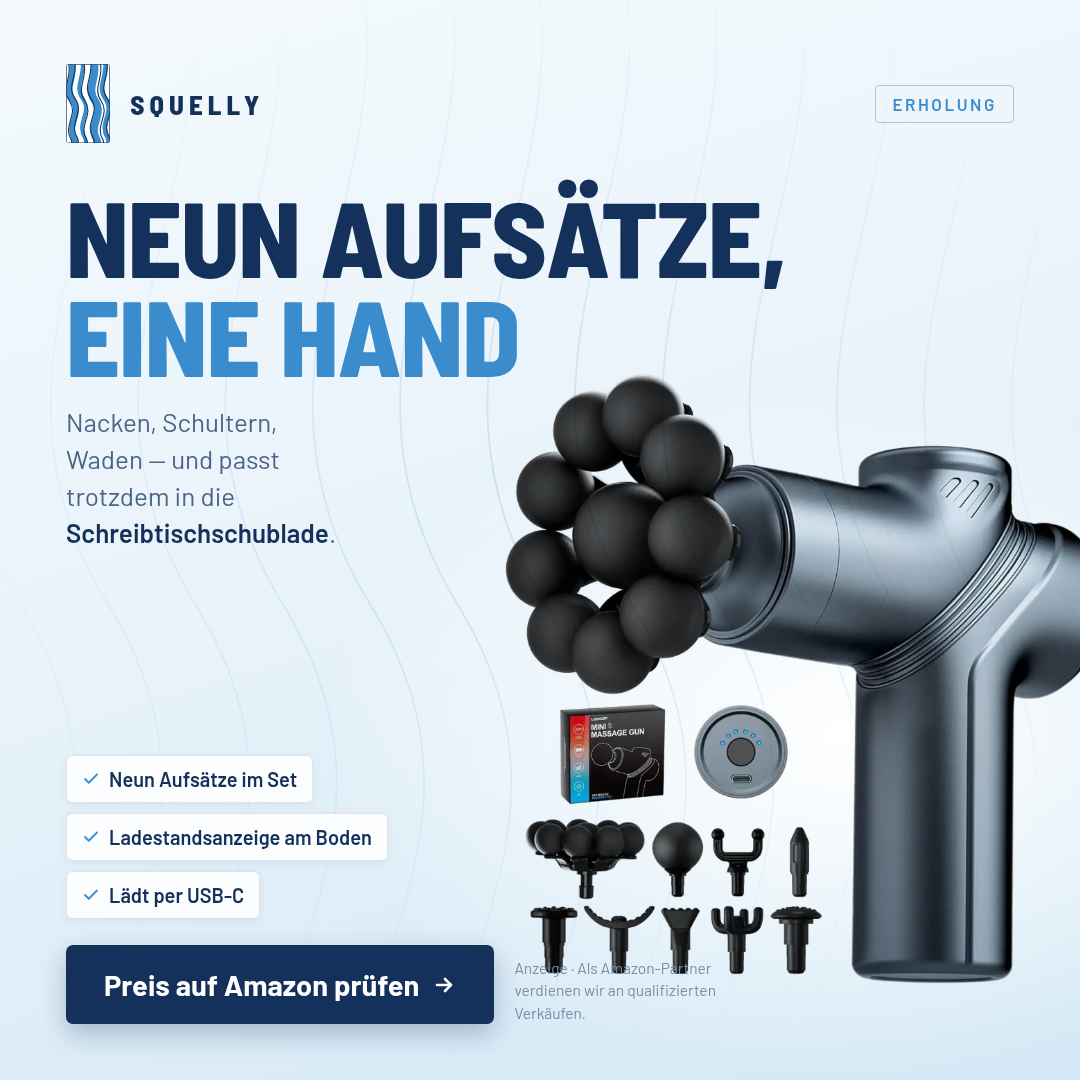
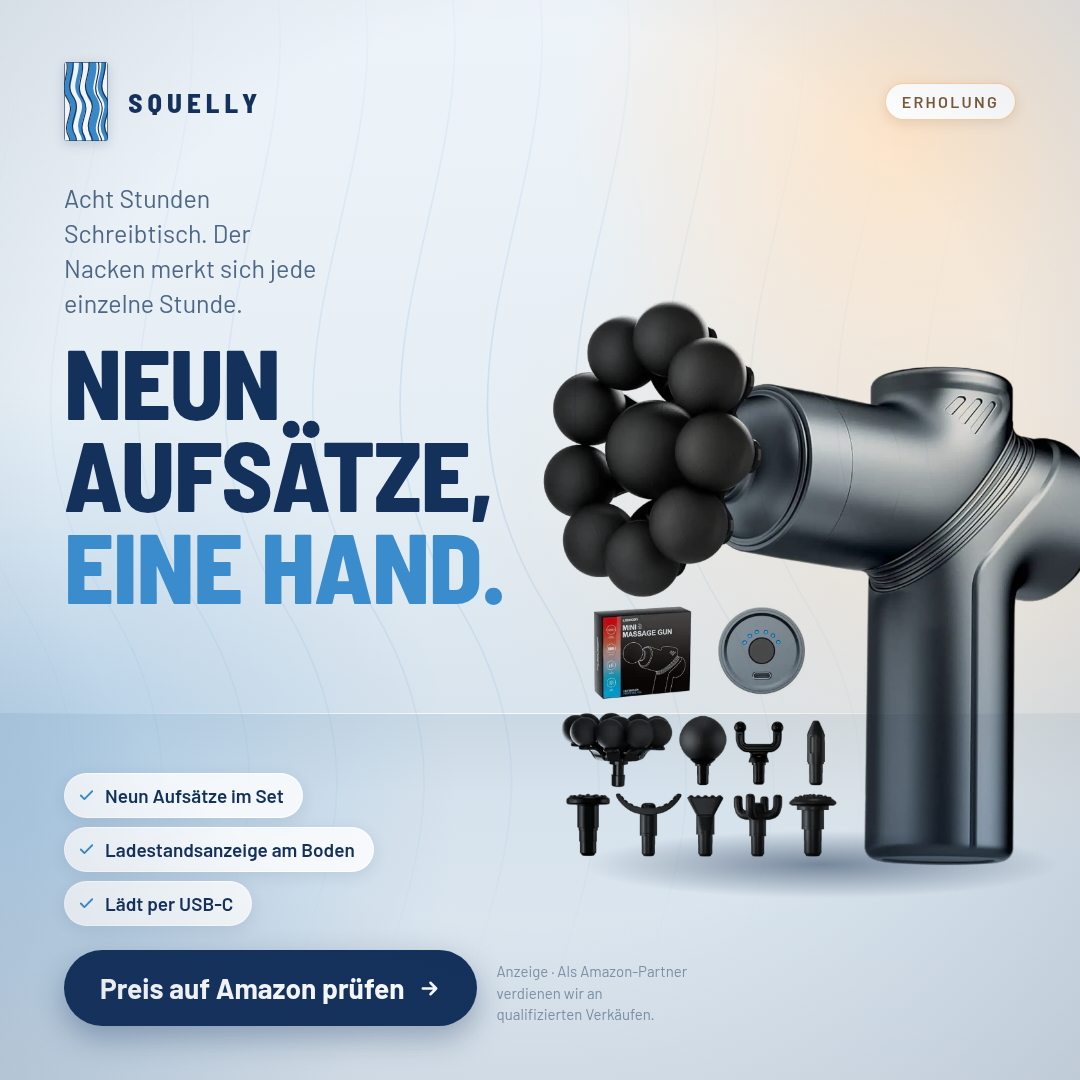
Light the ad set like a room instead of a lightbox
The creatives read as catalogue cutouts: even light, no ground, no
warmth. Rebuilt around a simple scene — wall, surface, warm key light
from the upper right, cool fill from the lower left, and a vignette.

- Contact shadows are positioned from the measured product silhouette
  rather than by hand, so each product actually sits on the surface.
  The renderer scans the image for non-white pixels and places the
  shadow under the real base.
- Multiply moved from the image to its wrapper. On the element itself
  it blended against an empty stacking context and left a white box
  around every product.
- Dropped the reflection: object-fit made it impossible to align to
  the product base, and it read as a detached smear.
- The lamp now shows what it does — the wide colour circle it casts,
  plus its sixteen colours as swatches in the spec chip.
- Copy opens with a spoken observation instead of a slogan.

Also checks in the build and render scripts next to the output.

Claude-Session: https://claude.ai/code/session_01Kc8PukdsvKsrThR87MMvZu

diff --git a/werbemittel/motive-vorlage.html b/werbemittel/motive-vorlage.html
@@ -6,72 +6,119 @@
 <style>
 /*FONTS*/
 :root{
-  --navy:#14315c; --blue:#3a8ccd; --sky:#d5eef8; --ground:#e9f3fa;
-  --ink-soft:#4a6484;
+  --navy:#14315c; --blue:#3a8ccd; --sky:#d5eef8;
+  --ink-soft:#4e6785;
+  /* Wärme: ein Sonnenfleck aus der oberen rechten Ecke, wie durch ein Fenster */
+  --warm:#ffe3c4;
 }
 *{margin:0;padding:0;box-sizing:border-box}
-body{background:#333;display:flex;flex-direction:column;align-items:center;gap:34px;padding:34px}
+body{background:#2a2a2a;display:flex;flex-direction:column;align-items:center;gap:34px;padding:34px}
 
 /* ============================================================
-   Ein Layout für alle drei Motive — gleiche Marke, gleiche Regeln.
-   Unterschiedlich sind nur Foto, Kategorie und Text.
+   Ein Motiv = ein Raum. Wand oben, Fläche unten, Licht von rechts.
+   Das Produkt steht darauf, statt im Nichts zu schweben.
    ============================================================ */
 .ad{
   width:1080px;height:1080px;position:relative;overflow:hidden;flex-shrink:0;
-  background:
-    radial-gradient(78% 52% at 78% 68%, #ffffff 0%, rgba(255,255,255,0) 62%),
-    linear-gradient(163deg, #f4fafd 0%, var(--ground) 46%, #d3e8f5 100%);
   font-family:'Barlow',system-ui,sans-serif;color:var(--navy);
+  background:linear-gradient(178deg,#eef4f9 0%,#e4edf4 46%,#dae5ee 62%,#cfdcE7 100%);
+  isolation:isolate;
 }
-/* Konturmotiv der Marke, sehr zurückhaltend — Textur statt Dekoration */
-.tex{position:absolute;inset:-6%;opacity:.2;pointer-events:none;
-  -webkit-mask-image:radial-gradient(66% 58% at 50% 46%,#000,transparent 84%);
-  mask-image:radial-gradient(66% 58% at 50% 46%,#000,transparent 84%)}
+/* Die Fläche, auf der das Produkt steht */
+.surface{position:absolute;left:0;right:0;bottom:0;height:34%;z-index:0;
+  background:linear-gradient(180deg,#c9d8e4 0%,#d6e2ec 22%,#dfe8f0 100%)}
+.surface::before{content:"";position:absolute;top:0;left:0;right:0;height:1px;
+  background:linear-gradient(90deg,transparent,rgba(255,255,255,.85) 30%,rgba(255,255,255,.85) 70%,transparent)}
+/* Warmes Streiflicht — der wichtigste Griff gegen den Laborlook */
+.sun{position:absolute;inset:0;z-index:1;pointer-events:none;
+  background:
+    radial-gradient(46% 42% at 84% 12%, rgba(255,227,196,.92) 0%, rgba(255,227,196,0) 68%),
+    radial-gradient(70% 50% at 92% 46%, rgba(255,214,170,.42) 0%, rgba(255,214,170,0) 70%)}
+/* Kühler Gegenpol links, damit das Markenblau trägt */
+.cool{position:absolute;inset:0;z-index:1;pointer-events:none;
+  background:radial-gradient(58% 54% at 2% 74%, rgba(58,140,205,.26) 0%, rgba(58,140,205,0) 70%)}
+/* Konturmotiv der Marke, sehr leise */
+.tex{position:absolute;inset:-6%;z-index:1;opacity:.16;pointer-events:none;
+  -webkit-mask-image:radial-gradient(64% 56% at 46% 42%,#000,transparent 82%);
+  mask-image:radial-gradient(64% 56% at 46% 42%,#000,transparent 82%)}
 .tex svg{width:100%;height:100%}
+/* Weiche Abdunklung an den Rändern — Fotos haben das, Grafiken meist nicht */
+.vig{position:absolute;inset:0;z-index:6;pointer-events:none;
+  background:radial-gradient(78% 72% at 50% 44%, transparent 58%, rgba(28,54,88,.16) 100%)}
 
-.inner{position:relative;z-index:2;display:flex;flex-direction:column;height:100%;
-  padding:64px 66px 56px}
+/* ---------- Produkt ---------- */
+/* Multiply auf hellem Grund: das Weiß des Studiofotos verschwindet,
+   das Produkt behält seine Zeichnung. */
+.stage{position:absolute;z-index:3;mix-blend-mode:multiply}
+.stage img{width:100%;height:100%;object-fit:contain;display:block}
+/* Aufsetzschatten: ohne ihn schwebt jedes freigestellte Produkt */
+.contact{position:absolute;z-index:2;border-radius:50%;
+  background:radial-gradient(closest-side, rgba(22,45,76,.5), rgba(22,45,76,0) 76%)}
 
-/* ---------- Markenzeile ---------- */
+#ad1 .stage  {right:-40px;bottom:206px;width:600px;height:600px}
+#ad1 .contact{right:6px;bottom:170px;width:530px;height:76px}
+#ad2 .stage  {right:-24px;bottom:214px;width:566px;height:566px}
+#ad2 .contact{right:26px;bottom:180px;width:470px;height:70px}
+#ad3 .stage  {right:26px;bottom:210px;width:492px;height:660px}
+#ad3 .contact{right:132px;bottom:184px;width:282px;height:56px}
+
+
+/* ---------- Lichtkreis der Lampe ---------- */
+/* Genau das, was eine Sunset-Lampe an die Wand wirft: ein großer,
+   weicher Farbkreis. Liegt hinter dem Produkt, damit es davor steht. */
+#ad3 .glow{position:absolute;z-index:2;border-radius:50%;pointer-events:none;
+  left:430px;top:22px;width:700px;height:700px;
+  background:radial-gradient(circle at 46% 44%,
+    rgba(255,214,150,.95) 0%,
+    rgba(255,168,96,.82) 22%,
+    rgba(245,116,96,.62) 40%,
+    rgba(206,94,138,.40) 57%,
+    rgba(138,92,190,.22) 72%,
+    rgba(138,92,190,0) 82%);
+  filter:blur(3px)}
+/* Streulicht auf der Stellfläche, sonst schwebt der Kreis vor dem Raum */
+#ad3 .glowfloor{position:absolute;z-index:2;pointer-events:none;
+  left:470px;bottom:150px;width:640px;height:200px;border-radius:50%;
+  background:radial-gradient(closest-side, rgba(255,152,96,.34), rgba(255,152,96,0) 76%);
+  filter:blur(8px)}
+
+/* ---------- Farbpunkte ---------- */
+.dots{display:inline-flex;gap:5px;margin-right:4px}
+.dots i{width:15px;height:15px;border-radius:50%;background:var(--c);display:block;
+  box-shadow:inset 0 0 0 1px rgba(0,0,0,.12)}
+
+/* ---------- Inhalt ---------- */
+.inner{position:relative;z-index:5;display:flex;flex-direction:column;height:100%;
+  padding:62px 64px 54px}
 .top{display:flex;align-items:center;gap:15px}
-.logo{width:44px;height:auto;display:block;border-radius:3px}
+.logo{width:44px;height:auto;display:block;border-radius:3px;
+  box-shadow:0 3px 12px rgba(20,49,92,.18)}
 .wm{font-family:'Barlow Semi Condensed';font-weight:800;font-size:27px;letter-spacing:.19em;
-  text-indent:.19em;color:var(--navy)}
-.tag{margin-left:auto;font-weight:600;font-size:17px;letter-spacing:.15em;text-transform:uppercase;
-  color:var(--blue);border:1.5px solid rgba(58,140,205,.42);padding:8px 16px;border-radius:4px}
+  text-indent:.19em}
+.tag{margin-left:auto;font-weight:600;font-size:16px;letter-spacing:.14em;text-transform:uppercase;
+  color:#7a5a38;background:#fff;border:1px solid rgba(255,206,158,.95);
+  padding:8px 16px;border-radius:99px;box-shadow:0 3px 12px rgba(120,80,40,.14)}
 
-/* ---------- Schlagzeile ---------- */
-.head{font-family:'Barlow Semi Condensed';font-weight:800;
-  font-size:106px;line-height:.93;letter-spacing:-.008em;margin-top:44px;text-transform:uppercase}
+/* Gesprochener Satz statt Werbespruch — das macht den Ton menschlich */
+.said{margin-top:40px;font-size:25px;font-weight:500;color:var(--ink-soft);
+  line-height:1.4;max-width:19ch}
+.head{font-family:'Barlow Semi Condensed';font-weight:800;font-size:98px;line-height:.94;
+  letter-spacing:-.01em;margin-top:14px;text-transform:uppercase;max-width:13ch}
 .head .big{color:var(--blue)}
-.sub{font-size:26px;line-height:1.42;color:var(--ink-soft);margin-top:20px;max-width:17ch}
-.sub b{font-weight:600;color:var(--navy)}
 
-/* ---------- Produktfoto ---------- */
-/* Die Freisteller liegen auf Weiß. Multiply lässt das Weiß im Untergrund
-   verschwinden — dadurch keine sichtbare Bildkante. */
-.shot{position:absolute;z-index:1;mix-blend-mode:multiply}
-.shot img{width:100%;height:100%;object-fit:contain;display:block}
-/* Jedes Produkt hat eine andere Silhouette und braucht seinen eigenen Stand */
-#ad1 .shot{right:-54px;bottom:88px;width:648px;height:648px}
-#ad2 .shot{right:-30px;bottom:96px;width:610px;height:610px}
-#ad3 .shot{right:2px;bottom:70px;width:566px;height:766px}
+.proof{margin-top:auto;display:flex;flex-direction:column;align-items:flex-start;gap:9px}
+.pf{display:flex;align-items:center;gap:10px;
+  background:rgba(255,255,255,.82);border:1px solid rgba(255,255,255,.9);
+  border-radius:99px;padding:10px 18px 10px 13px;font-size:19px;font-weight:600;
+  box-shadow:0 4px 16px rgba(20,49,92,.1)}
+.pf svg{width:17px;height:17px;color:var(--blue);flex-shrink:0}
 
-/* ---------- Belege ---------- */
-.proof{margin-top:auto;display:flex;flex-direction:column;align-items:flex-start;gap:10px}
-.pf{display:flex;align-items:center;gap:9px;
-  background:rgba(255,255,255,.86);border:1px solid rgba(20,49,92,.13);
-  border-radius:6px;padding:11px 15px;font-size:20px;font-weight:600;
-  box-shadow:0 2px 10px rgba(20,49,92,.06)}
-.pf svg{width:18px;height:18px;color:var(--blue);flex-shrink:0}
-
-/* ---------- Abschluss ---------- */
-.foot{display:flex;align-items:flex-end;gap:20px;margin-top:26px}
+.foot{display:flex;align-items:flex-end;gap:20px;margin-top:24px}
 .cta{display:inline-flex;align-items:center;gap:13px;background:var(--navy);color:#fff;
-  font-weight:700;font-size:29px;padding:22px 38px;border-radius:7px;
-  box-shadow:0 10px 26px rgba(20,49,92,.28);white-space:nowrap}
-.cta svg{width:24px;height:24px}
-.note{font-size:15.5px;color:#7b8ea6;line-height:1.45;max-width:24ch}
+  font-weight:700;font-size:28px;padding:21px 36px;border-radius:99px;
+  box-shadow:0 12px 30px rgba(20,49,92,.34);white-space:nowrap}
+.cta svg{width:23px;height:23px}
+.note{font-size:15px;color:#7f92a8;line-height:1.45;max-width:23ch}
 
 .cap{color:#bbb;font-family:monospace;font-size:13px;margin-bottom:-22px;align-self:flex-start}
 </style>

diff --git a/werbemittel/motive-bauen.py b/werbemittel/motive-bauen.py
@@ -1,0 +1,77 @@
+import json
+d='/tmp/claude-0/-home-user-1/d9dd5cf6-a597-547e-95fb-a98c3cc3ca25/scratchpad/'
+LOGO='''<svg class="logo" viewBox="0 0 200 360" aria-hidden="true">
+        <g clip-path="url(#lc)"><rect width="200" height="360" fill="#fff"/>
+          <g fill="none" stroke="#3a8ccd" stroke-linecap="round">
+            <use href="#la" x="18" stroke-width="26"/><use href="#lb" x="72" stroke-width="17"/>
+            <use href="#la" x="118" stroke-width="34"/><use href="#lb" x="176" stroke-width="21"/></g>
+          <g fill="none" stroke="#14315c" stroke-width="5">
+            <use href="#la" x="2"/><use href="#lb" x="38"/><use href="#la" x="72"/>
+            <use href="#lb" x="110"/><use href="#la" x="146"/><use href="#lb" x="184"/></g></g>
+        <rect x="1" y="1" width="198" height="358" rx="2" fill="none" stroke="#14315c" stroke-width="4"/></svg>'''
+DEFS='''<svg width="0" height="0" style="position:absolute" aria-hidden="true"><defs>
+  <clipPath id="lc"><rect x="1" y="1" width="198" height="358" rx="2"/></clipPath>
+  <path id="la" d="M0,-30 C40,52 -32,104 14,168 C56,230 -16,276 20,340 C38,376 6,388 12,412"/>
+  <path id="lb" d="M0,-30 C22,60 -44,96 8,164 C44,226 -28,268 14,336 C30,372 -2,384 6,412"/>
+  <path id="t1" d="M0,-60 C120,180 -110,360 40,600 C180,830 -50,960 60,1180"/></defs></svg>'''
+TEX=('<div class="tex"><svg viewBox="0 0 1080 1080" preserveAspectRatio="none">'
+     '<g fill="none" stroke="#3a8ccd" stroke-width="1.5">'
+     +"".join('<use href="#t1" x="%d"/>'%x for x in range(-40,1180,78))+'</g></svg></div>')
+HAKEN=('<svg viewBox="0 0 24 24" fill="none" stroke="currentColor" stroke-width="2.6" '
+       'stroke-linecap="round" stroke-linejoin="round"><path d="M20 6 9 17l-5-5"/></svg>')
+PFEIL=('<svg viewBox="0 0 24 24" fill="none" stroke="currentColor" stroke-width="2.6" '
+       'stroke-linecap="round" stroke-linejoin="round"><path d="M5 12h14M13 6l6 6-6 6"/></svg>')
+ADS=[
+ dict(id="ad1",tag="Küche",bild="vakuumierer",
+   alt="Weißer Handvakuumierer neben vakuumierten Beuteln und frischem Gemüse",
+   said='Die halbe Avocado. Der Rest Hackfleisch. Der Salat von Dienstag.',
+   kopf='Alles hält<br><span class="big">fünfmal länger.</span>',
+   belege=["In 5 Sekunden versiegelt","30 wiederverwendbare Beutel dabei","Akku, lädt per USB-C"]),
+ dict(id="ad2",tag="Erholung",bild="massager",
+   alt="Graue Mini-Massagepistole mit neun Aufsätzen",
+   said='Acht Stunden Schreibtisch. Der Nacken merkt sich jede einzelne Stunde.',
+   kopf='Neun Aufsätze,<br><span class="big">eine Hand.</span>',
+   belege=["Neun Aufsätze im Set","Ladestandsanzeige am Boden","Lädt per USB-C"]),
+ dict(id="ad3",tag="Zuhause",bild="lampe",
+   alt="Schwarze Sunset-Projektor-Tischlampe mit farbig leuchtender Linse",
+   said='Weißes Deckenlicht macht aus jedem Zimmer ein Wartezimmer.',
+   kopf='16 Farben,<br><span class="big">ein Schalter.</span>',
+   belege=["16 Farben, vier Lichtmodi","Fernbedienung liegt bei","Kopf um 180° schwenkbar"]),
+]
+bilder=json.load(open(d+'bilder-ad.json'))
+teile=[DEFS]
+for a in ADS:
+    FARBEN = ["#ff7a3d","#ff4d6d","#c94bd0","#7a5cf0","#3aa0ff","#2fd0c4","#ffd23d","#ff9a3d"]
+    def chip(i, b):
+        if a["id"] == "ad3" and i == 0:
+            punkte = '<span class="dots">' + "".join('<i style="--c:%s"></i>' % c for c in FARBEN) + '</span>'
+            return '<span class="pf">%s%s</span>' % (punkte, b)
+        return '<span class="pf">%s%s</span>' % (HAKEN, b)
+    belege="".join(chip(i,b) for i,b in enumerate(a["belege"]))
+    img=bilder[a["bild"]]
+    glow = ('<div class="glow"></div><div class="glowfloor"></div>' if a["id"]=="ad3" else "")
+    teile.append('''<div class="cap">%(id)s — %(tag)s</div>
+<div class="ad" id="%(id)s">
+  <div class="surface"></div>
+  %(glow)s
+  %(tex)s
+  <div class="sun"></div><div class="cool"></div>
+  <div class="contact"></div>
+  <div class="stage"><img src="%(img)s" alt="%(alt)s"></div>
+  <div class="vig"></div>
+  <div class="inner">
+    <div class="top">%(logo)s<span class="wm">SQUELLY</span><span class="tag">%(tag)s</span></div>
+    <p class="said">%(said)s</p>
+    <h1 class="head">%(kopf)s</h1>
+    <div class="proof">%(belege)s</div>
+    <div class="foot">
+      <span class="cta">Preis auf Amazon prüfen %(pfeil)s</span>
+      <span class="note">Anzeige · Als Amazon-Partner verdienen wir an qualifizierten Verkäufen.</span>
+    </div>
+  </div>
+</div>'''%dict(id=a["id"],tag=a["tag"],tex=TEX,img=img,alt=a["alt"],logo=LOGO,
+               said=a["said"],kopf=a["kopf"],belege=belege,pfeil=PFEIL,glow=glow))
+tpl=open(d+'ads4.template.html',encoding='utf-8').read()
+out=tpl.replace('/*FONTS*/',open(d+'fonts.css',encoding='utf-8').read()).replace('<!--ADS-->',"\n".join(teile))
+open(d+'ads4.html','w',encoding='utf-8').write(out)
+print('ads4.html',round(len(out)/1024),'KB')
